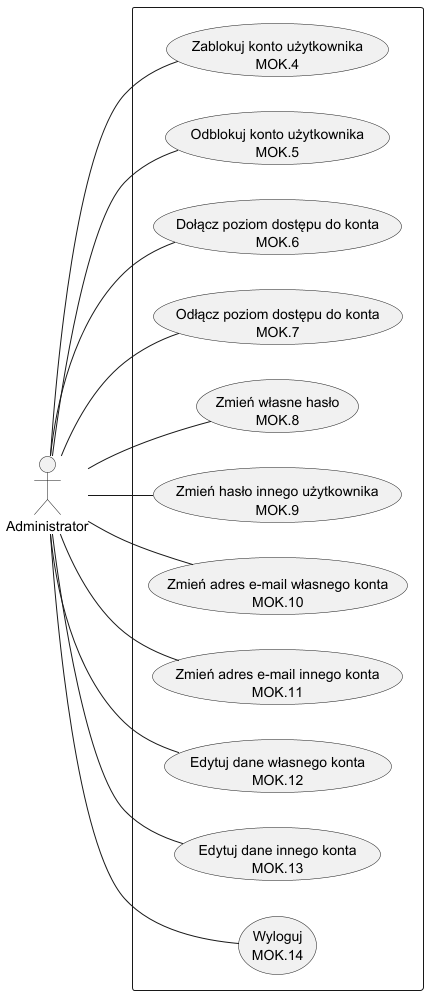
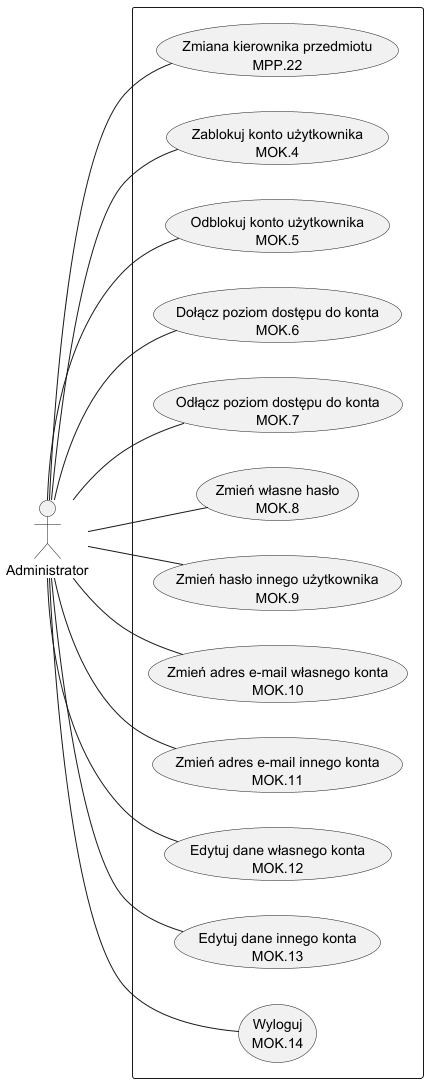
Sumatywny: Dodanie MPP.22 + poprawa w SSBD (doc#16)

diff --git a/sumatywny/etap1/13przypadkiuzycia.md b/sumatywny/etap1/13przypadkiuzycia.md
@@ -5,7 +5,7 @@ Tabela 1.3.1 Słownik aktorów w systemie
 |Aktor|Opis roli aktora|Przypadki użycia aktora|
 |-|-|-|
 |Gość|Użytkownik nieuwierzytelniony, aby skorzystać z funkcjonalnośći aplikacji należy zarejestrować się lub zalogować się na obecnie istniejące konto z innym poziomem dostępu.|Z wyjątkiem Modułu Obsługi Kont - brak|
-|Administrator|Administrator to jedyny aktor posiadający uprawnienia pozwalające na zarządzanie wszystkimi dostępnymi kontami w systemie.|Z wyjątkiem Modułu Obsługi Kont - brak|
+|Administrator|Administrator to jedyny aktor posiadający uprawnienia pozwalające na zarządzanie wszystkimi dostępnymi kontami w systemie.|MPP.22 - Zmiana kierownika przedmiotu|
 |Student|Student to uczeń, który realizuje dany przedmiot lub przedmioty na semestrze, gdzie jest zobligowany do zamieszczania kodu na repozytorium.|MPP.19 - Sprawdzenie swojego kodu<br />MPP.20 - Przeglądanie swoich raportów|
 |Prowadzący|Prowadzący to nauczyciel akademicki, który zarządza dostępnymi przedmiotami wraz z ich regułami oraz harmonogramami i monitoruje wyniki Studentów względem możliwego plagiatu.|MPP.1 - Generowanie raportu po ustawieniu harmonogramu<br />MPP.2 - Generowanie raportu na żądanie<br />MPP.3 - Przeglądanie wszystkich raportów<br />MPP.4 - Przeglądanie jednego raportu<br />MPP.5 - Przeglądanie przedmiotów<br />MPP.6 - Filtrowanie przedmiotów<br />MPP.7 - Sortowanie przedmiotów<br />MPP.8 - Usuwanie raportów<br />MPP.9 - Przeglądanie repozytoriów<br />MPP.10 - Przeglądanie kont użytkowników<br />MPP.11 - Przeglądanie harmonogramu<br />MPP.12 - Przeglądanie reguł<br />MPP.13 - Tworzenie przedmiotu<br />MPP.14 - Edycja przedmiotu<br />MPP.15 - Usuwanie przedmiotu<br />MPP.16 - Tworzenie reguł<br />MPP.17 - Edycja reguł<br />MPP.18 - Usuwanie reguł|
 |Prowadzący dodatkowy|Prowadzący dodatkowy to nauczyciel akademicki posiadający jedynie prawo do odczytu w danym przedmiocie.|MPP.2 - Generowanie raportu na żądanie<br />MPP.3 - Przeglądanie wszystkich raportów<br />MPP.4 - Przeglądanie jednego raportu<br />MPP.5 - Przeglądanie przedmiotów<br />MPP.6 - Filtrowanie przedmiotów<br />MPP.7 - Sortowanie przedmiotów<br />MPP.9 - Przeglądanie repozytoriów<br />MPP.10 - Przeglądanie kont użytkowników<br />MPP.12 - Przeglądanie reguł|
@@ -29,4 +29,8 @@ Rysunek 1.3.3 Diagram przypadków użycia dla aktora Prowadzący dodatkowy
 
 Rysunek 1.3.4 Diagram przypadków użycia dla aktora System
 
-Dla aktorów Gość oraz Administrator nie zamieszczono diagramów przypadków użycia, ponieważ oboje nie posiadają innych przypadków użycia oprócz tych zawartych w Module Obsługi Kont.
+![Diagram przypadków użycia - aktor Administrator](img/uc_admin.png)
+
+Rysunek 1.3.5 Diagram przypadków użycia dla aktora Administrator
+
+Dla aktora Gość nie zamieszczono diagramu przypadków użycia, ponieważ nie posiada on innych przypadków użycia oprócz tych zawartych w Module Obsługi Kont.

diff --git a/ssbd/1wstepny/02moduly.md b/ssbd/1wstepny/02moduly.md
@@ -678,6 +678,24 @@ Tabela 1.2.36 Scenariusz dla przypadku użycia MPP.21
 |Specjalne wymagania| |
 |Notatki i kwestie| |
 
+Tabela 1.2.37 Scenariusz dla przypadku użycia MPP.22
+
+|Pole|Treść|
+|--|--|
+|Oznaczenie|MPP.22|
+|Przypadek użycia| |
+|Twórca| |
+|Poziom ważności| |
+|Typ przypadku użycia| |
+|Aktorzy| |
+|Krótki opis| |
+|Warunki wstępne| |
+|Warunki końcowe| |
+|Główny przepływ zdarzeń| |
+|Alternatywne przepłīwy zdarzeń| |
+|Specjalne wymagania| |
+|Notatki i kwestie| |
+
 **Lista modułów funkcjonalnych i przypadków użycia**
 
 - MOK.1 - Rejestracja konta użytkownika
@@ -715,4 +733,5 @@ Tabela 1.2.36 Scenariusz dla przypadku użycia MPP.21
 - MPP.19 - Sprawdzenie swojego kodu
 - MPP.20 - Przeglądanie swoich raportów
 - MPP.21 - Wygeneruj raport według harmonogramu
+- MPP.22 - Zmiana kierownika przedmiotu
 
